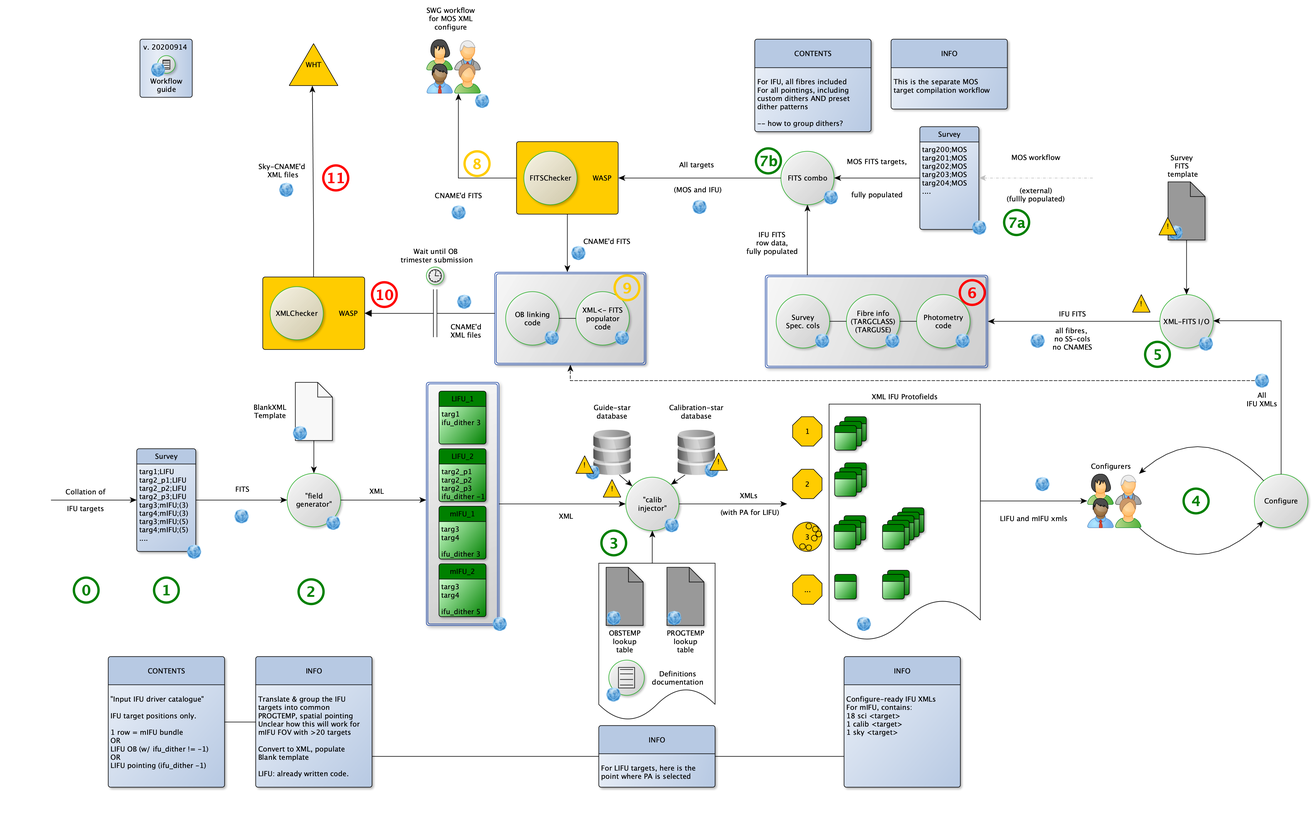
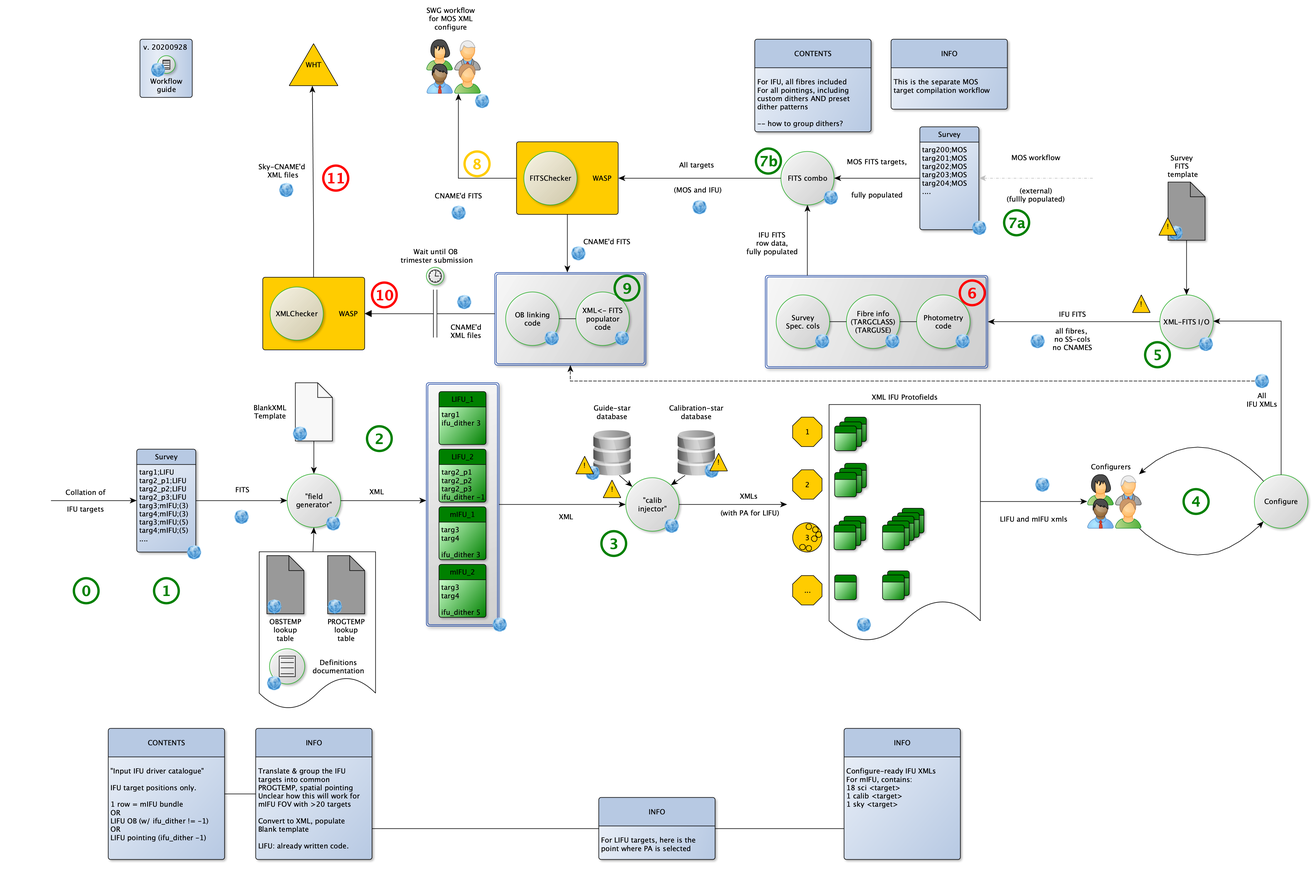
Update to IFU workflow diagram

diff --git a/workflow/ifu_workflow.html b/workflow/ifu_workflow.html
@@ -112,7 +112,7 @@ tooltip.style.display = "none";
 <div class="tooltip" id="n32">Stage 4 input files - this contains the 4 IFU XMLs at the point they are due to be submitted to Configure.</div>
 <div class="tooltip" id="n33">The underlying blank XML template. <br>All OBs are dervied from this master XML file, with specific elements updated throughout the workflow.</div>
 <div class="tooltip" id="n34">This code identifies which guide star(s) and WD calibration stars can be used for a given field, and inserts their XML data <target> representations into the "proto-field" XMLs</div>
-<div class="tooltip" id="n35">v. 20200914</div>
+<div class="tooltip" id="n35">v. 20200928</div>
 <div class="tooltip" id="n36">Notes to accompany this workflow</div>
 <div class="tooltip" id="n39">Positions of viable guidestars within the proposed FOV of the protofield.</div>
 <div class="tooltip" id="n40">HEALPix'd decomposition of the Guidestar catalogue. This is based on Gaia DR2.</div>
@@ -122,52 +122,52 @@ tooltip.style.display = "none";
 <div class="tooltip" id="n44">2</div>
 <div class="tooltip" id="n45">3</div>
 <div class="tooltip" id="n47">0</div>
-<div class="tooltip" id="n50">Survey</div>
-<div class="tooltip" id="n51">Example input IFU driver catalogue. <br>This contains the information required to produce WEAVE IFU observing blocks. <br>We provide 4 cases here, and these will evolve throughout the workflow:<br><br>1. LIFU with fixed dither pattern<br>2. LIFU with custom dither pattern<br>3. mIFU with 3-dither pattern<br>4. mIFU with 5-dither pattern<br><br>(3) and (4) are observations of the same targets.</div>
-<div class="tooltip" id="n53">"field<br>generator"</div>
-<div class="tooltip" id="n54">INFO</div>
-<div class="tooltip" id="n55">3</div>
-<div class="tooltip" id="n63">Configurers</div>
-<div class="tooltip" id="n64">Photometry<br>code</div>
-<div class="tooltip" id="n65">Survey<br>Spec. cols</div>
-<div class="tooltip" id="n66">XML-FITS I/O</div>
-<div class="tooltip" id="n67">This code takes the output of configure and converts each target (and associated metadata from the XML) into a FITS catalogue row. This includes writing the IFU position angles, spaxel IDs etc.</div>
-<div class="tooltip" id="n68">WASP</div>
-<div class="tooltip" id="n69">FITSChecker</div>
-<div class="tooltip" id="n70">Survey</div>
-<div class="tooltip" id="n71">These are the individual input catalogues from the survey teams. They have been verified by the WASP and have CNAMES added to them.</div>
-<div class="tooltip" id="n72">FITS combo</div>
-<div class="tooltip" id="n73">INFO</div>
-<div class="tooltip" id="n74">WASP</div>
-<div class="tooltip" id="n75">XMLChecker</div>
-<div class="tooltip" id="n76">Wait until OB<br> trimester submission</div>
-<div class="tooltip" id="n79">WHT</div>
-<div class="tooltip" id="n80">This code identifies the entries in the input driver and splits them into fields. It also converts the FITS file into XML.</div>
-<div class="tooltip" id="n81">4</div>
-<div class="tooltip" id="n82">6</div>
-<div class="tooltip" id="n84">CONTENTS</div>
-<div class="tooltip" id="n85">5</div>
-<div class="tooltip" id="n86">8</div>
-<div class="tooltip" id="n87">10</div>
-<div class="tooltip" id="n95">This is the output from configure. In general, configure is non-determinative: <br>the files here might not represent end-user attempts to run configure, but should serve as illustrative of the process.</div>
-<div class="tooltip" id="n96">Fibre info<br>(TARGCLASS)<br>(TARGUSE)</div>
-<div class="tooltip" id="n99">OB linking<br>code</div>
-<div class="tooltip" id="n101">XML<- FITS<br>populator<br>code</div>
-<div class="tooltip" id="n105">This is a FITS file containing all fibres for all IFU observations.</div>
-<div class="tooltip" id="n106">7b</div>
-<div class="tooltip" id="n107">7a</div>
-<div class="tooltip" id="n108">9</div>
-<div class="tooltip" id="n110">11</div>
-<div class="tooltip" id="n111">SWG workflow<br>for MOS XML<br>configure</div>
-<div class="tooltip" id="n112">If LIFU has an "apply_dither" = 3,5 then<br>the GuideStar module must ensure that the <br>*same* guidestar is visible within the fixed<br>dither pattern that Dave Terrett uses, or within<br>a displacement from origin.</div>
-<div class="tooltip" id="n119">Stage 5 input files - this contains the 4 IFU XMLs at the point they are due to be submitted to Configure.</div>
-<div class="tooltip" id="n120">If we decide to ever allow mixed-survey fields for mIFU (eg. filler-mode?), <br>then the surveys will need to split at this point for FITS - ie, <br>the survey-specfic FITS templates must be used, mapping XML target TARGSRVY to the relevant catalogue template.<br><br>From this point onwards, this workflow implies work done on just one of these surveys. In reality, both must be processed.<br></div>
-<div class="tooltip" id="n121">Survey <br>FITS <br>template</div>
-<div class="tooltip" id="n122">This is the input FITS template for a specific survey. <br>For PI-surveys, these templates can be generated at the WASP once end-users <br>receive their access credentials.</div>
-<div class="tooltip" id="n123">Stage 2 input file - this is the input driver catalogue, as a FITS file.</div>
+<div class="tooltip" id="n49">Survey</div>
+<div class="tooltip" id="n50">Example input IFU driver catalogue. <br>This contains the information required to produce WEAVE IFU observing blocks. <br>We provide 4 cases here, and these will evolve throughout the workflow:<br><br>1. LIFU with fixed dither pattern<br>2. LIFU with custom dither pattern<br>3. mIFU with 3-dither pattern<br>4. mIFU with 5-dither pattern<br><br>(3) and (4) are observations of the same targets.</div>
+<div class="tooltip" id="n52">"field<br>generator"</div>
+<div class="tooltip" id="n53">INFO</div>
+<div class="tooltip" id="n54">3</div>
+<div class="tooltip" id="n62">Configurers</div>
+<div class="tooltip" id="n63">Photometry<br>code</div>
+<div class="tooltip" id="n64">Survey<br>Spec. cols</div>
+<div class="tooltip" id="n65">XML-FITS I/O</div>
+<div class="tooltip" id="n66">This code takes the output of configure and converts each target (and associated metadata from the XML) into a FITS catalogue row. This includes writing the IFU position angles, spaxel IDs etc.</div>
+<div class="tooltip" id="n67">WASP</div>
+<div class="tooltip" id="n68">FITSChecker</div>
+<div class="tooltip" id="n69">Survey</div>
+<div class="tooltip" id="n70">These are the individual input catalogues from the survey teams. They have been verified by the WASP and have CNAMES added to them.</div>
+<div class="tooltip" id="n71">FITS combo</div>
+<div class="tooltip" id="n72">INFO</div>
+<div class="tooltip" id="n73">WASP</div>
+<div class="tooltip" id="n74">XMLChecker</div>
+<div class="tooltip" id="n75">Wait until OB<br> trimester submission</div>
+<div class="tooltip" id="n78">WHT</div>
+<div class="tooltip" id="n79">This code identifies the entries in the input driver and splits them into fields. It also converts the FITS file into XML.</div>
+<div class="tooltip" id="n80">4</div>
+<div class="tooltip" id="n81">6</div>
+<div class="tooltip" id="n83">CONTENTS</div>
+<div class="tooltip" id="n84">5</div>
+<div class="tooltip" id="n85">8</div>
+<div class="tooltip" id="n86">10</div>
+<div class="tooltip" id="n94">This is the output from configure. In general, configure is non-determinative: <br>the files here might not represent end-user attempts to run configure, but should serve as illustrative of the process.</div>
+<div class="tooltip" id="n95">Fibre info<br>(TARGCLASS)<br>(TARGUSE)</div>
+<div class="tooltip" id="n98">OB linking<br>code</div>
+<div class="tooltip" id="n100">XML<- FITS<br>populator<br>code</div>
+<div class="tooltip" id="n104">This is a FITS file containing all fibres for all IFU observations.</div>
+<div class="tooltip" id="n105">7b</div>
+<div class="tooltip" id="n106">7a</div>
+<div class="tooltip" id="n107">9</div>
+<div class="tooltip" id="n109">11</div>
+<div class="tooltip" id="n110">SWG workflow<br>for MOS XML<br>configure</div>
+<div class="tooltip" id="n111">If LIFU has an "apply_dither" = 3,5 then<br>the GuideStar module must ensure that the <br>*same* guidestar is visible within the fixed<br>dither pattern that Dave Terrett uses, or within<br>a displacement from origin.</div>
+<div class="tooltip" id="n118">Stage 5 input files - this contains the 4 IFU XMLs at the point they are due to be submitted to Configure.</div>
+<div class="tooltip" id="n119">If we decide to ever allow mixed-survey fields for mIFU (eg. filler-mode?), <br>then the surveys will need to split at this point for FITS - ie, <br>the survey-specfic FITS templates must be used, mapping XML target TARGSRVY to the relevant catalogue template.<br><br>From this point onwards, this workflow implies work done on just one of these surveys. In reality, both must be processed.<br></div>
+<div class="tooltip" id="n120">Survey <br>FITS <br>template</div>
+<div class="tooltip" id="n121">This is the input FITS template for a specific survey. <br>For PI-surveys, these templates can be generated at the WASP once end-users <br>receive their access credentials.</div>
+<div class="tooltip" id="n122">Stage 2 input file - this is the input driver catalogue, as a FITS file.</div>
+<div class="tooltip" id="n123">Generate links</div>
 <div class="tooltip" id="n124">Generate links</div>
-<div class="tooltip" id="n125">Generate links</div>
-<div class="tooltip" id="n126">Scott: provide<br></div>
+<div class="tooltip" id="n125">Scott: provide<br></div>
 <div class="tooltip" id="e0">XML</div>
 <div class="tooltip" id="e1">FITS</div>
 <div class="tooltip" id="e2">XMLs <br><br>(with PA for LIFU)</div>
@@ -202,59 +202,59 @@ tooltip.style.display = "none";
   <area shape="poly" coords="2311,1706,2311,1706,2663,1706,2663,1726,2311,1726,2311,1726" alt="" onmouseover="showTooltip('e2')" onmouseout="hideTooltip()"/>
   <area shape="poly" coords="667,1693,667,1693,961,1693,961,1713,667,1713,667,1713" alt="" onmouseover="showTooltip('e1')" onmouseout="hideTooltip()"/>
   <area shape="poly" coords="1698,1706,1698,1706,2114,1706,2114,1726,1698,1726,1698,1726" alt="" onmouseover="showTooltip('e0')" onmouseout="hideTooltip()"/>
-  <area shape="rect" coords="3945,740,4005,800" alt="" onmouseover="showTooltip('n126')" onmouseout="hideTooltip()"/>
-  <area shape="rect" coords="2416,1542,2476,1602" alt="" onmouseover="showTooltip('n125')" onmouseout="hideTooltip()"/>
-  <area shape="rect" coords="1960,1552,2020,1612" alt="" onmouseover="showTooltip('n124')" onmouseout="hideTooltip()"/>
-  <area shape="rect" coords="797,1733,847,1783" href="https://ingbitbucket.ing.iac.es/projects/WVSWG/repos/ifu/browse/workflow/stage2/input" alt="" onmouseover="showTooltip('n123')" onmouseout="hideTooltip()" target="_blank"/>
-  <area shape="rect" coords="3977,767,4027,817" href="https://ingbitbucket.ing.iac.es/projects/WVSWG/repos/ifu/browse/workflow/stage6/" alt="" onmouseover="showTooltip('n122')" onmouseout="hideTooltip()" target="_blank"/>
-  <area shape="rect" coords="3976,619,4102,817" alt="" onmouseover="showTooltip('n121')" onmouseout="hideTooltip()"/>
-  <area shape="rect" coords="3855,1003,3915,1063" alt="" onmouseover="showTooltip('n120')" onmouseout="hideTooltip()"/>
-  <area shape="rect" coords="3523,1623,3573,1673" href="https://ingbitbucket.ing.iac.es/projects/WVSWG/repos/ifu/browse/workflow/stage5/input" alt="" onmouseover="showTooltip('n119')" onmouseout="hideTooltip()" target="_blank"/>
-  <area shape="rect" coords="2053,1633,2113,1693" alt="" onmouseover="showTooltip('n112')" onmouseout="hideTooltip()"/>
-  <area shape="rect" coords="1451,133,1636,318" alt="" onmouseover="showTooltip('n111')" onmouseout="hideTooltip()"/>
-  <area shape="rect" coords="1100,563,1185,648" alt="" onmouseover="showTooltip('n110')" onmouseout="hideTooltip()"/>
-  <area shape="rect" coords="2092,938,2176,1022" alt="" onmouseover="showTooltip('n108')" onmouseout="hideTooltip()"/>
-  <area shape="rect" coords="3418,715,3503,800" alt="" onmouseover="showTooltip('n107')" onmouseout="hideTooltip()"/>
-  <area shape="rect" coords="2573,505,2658,590" alt="" onmouseover="showTooltip('n106')" onmouseout="hideTooltip()"/>
-  <area shape="rect" coords="3507,1135,3557,1185" href="https://ingbitbucket.ing.iac.es/projects/WVSWG/repos/ifu/browse/workflow/stage6/input" alt="" onmouseover="showTooltip('n105')" onmouseout="hideTooltip()" target="_blank"/>
-  <area shape="rect" coords="1960,993,2142,1175" alt="" onmouseover="showTooltip('n101')" onmouseout="hideTooltip()"/>
-  <area shape="rect" coords="1721,993,1903,1175" alt="" onmouseover="showTooltip('n99')" onmouseout="hideTooltip()"/>
-  <area shape="rect" coords="2881,1003,3063,1185" alt="" onmouseover="showTooltip('n96')" onmouseout="hideTooltip()"/>
-  <area shape="rect" coords="4271,1271,4321,1321" href="https://ingbitbucket.ing.iac.es/projects/WVSWG/repos/ifu/browse/workflow/stage5/input" alt="" onmouseover="showTooltip('n95')" onmouseout="hideTooltip()" target="_blank"/>
-  <area shape="rect" coords="1266,961,1350,1045" alt="" onmouseover="showTooltip('n87')" onmouseout="hideTooltip()"/>
-  <area shape="rect" coords="1581,515,1666,599" alt="" onmouseover="showTooltip('n86')" onmouseout="hideTooltip()"/>
-  <area shape="rect" coords="3898,1164,3982,1249" alt="" onmouseover="showTooltip('n85')" onmouseout="hideTooltip()"/>
-  <area shape="rect" coords="2569,133,2965,448" alt="" onmouseover="showTooltip('n84')" onmouseout="hideTooltip()"/>
-  <area shape="rect" coords="3267,954,3352,1038" alt="" onmouseover="showTooltip('n82')" onmouseout="hideTooltip()"/>
-  <area shape="rect" coords="4029,1664,4114,1748" alt="" onmouseover="showTooltip('n81')" onmouseout="hideTooltip()"/>
-  <area shape="rect" coords="1109,1755,1159,1805" href="https://ingbitbucket.ing.iac.es/projects/WVSWG/repos/ifu/browse/workflow/stage2/" alt="" onmouseover="showTooltip('n80')" onmouseout="hideTooltip()" target="_blank"/>
-  <area shape="rect" coords="984,148,1150,291" alt="" onmouseover="showTooltip('n79')" onmouseout="hideTooltip()"/>
-  <area shape="rect" coords="1470,961,1495,985" alt="" onmouseover="showTooltip('n76')" onmouseout="hideTooltip()"/>
-  <area shape="rect" coords="919,976,1100,1157" alt="" onmouseover="showTooltip('n75')" onmouseout="hideTooltip()"/>
-  <area shape="rect" coords="894,943,1241,1190" alt="" onmouseover="showTooltip('n74')" onmouseout="hideTooltip()"/>
-  <area shape="rect" coords="3033,133,3429,371" alt="" onmouseover="showTooltip('n73')" onmouseout="hideTooltip()"/>
-  <area shape="rect" coords="2658,515,2839,697" alt="" onmouseover="showTooltip('n72')" onmouseout="hideTooltip()"/>
-  <area shape="rect" coords="3719,412,4084,800" alt="" onmouseover="showTooltip('n71')" onmouseout="hideTooltip()"/>
-  <area shape="rect" coords="3131,431,3332,781" alt="" onmouseover="showTooltip('n70')" onmouseout="hideTooltip()"/>
-  <area shape="rect" coords="1783,515,1964,697" alt="" onmouseover="showTooltip('n69')" onmouseout="hideTooltip()"/>
-  <area shape="rect" coords="1758,482,2104,729" alt="" onmouseover="showTooltip('n68')" onmouseout="hideTooltip()"/>
-  <area shape="rect" coords="4080,1145,4130,1195" href="https://ingbitbucket.ing.iac.es/projects/WVSWG/repos/ifu/browse/workflow/stage6/" alt="" onmouseover="showTooltip('n67')" onmouseout="hideTooltip()" target="_blank"/>
-  <area shape="rect" coords="3948,1003,4130,1185" alt="" onmouseover="showTooltip('n66')" onmouseout="hideTooltip()"/>
-  <area shape="rect" coords="2642,1003,2824,1185" alt="" onmouseover="showTooltip('n65')" onmouseout="hideTooltip()"/>
-  <area shape="rect" coords="3120,1003,3302,1185" alt="" onmouseover="showTooltip('n64')" onmouseout="hideTooltip()"/>
-  <area shape="rect" coords="3701,1613,3886,1798" alt="" onmouseover="showTooltip('n63')" onmouseout="hideTooltip()"/>
-  <area shape="rect" coords="2698,1778,2798,1878" alt="" onmouseover="showTooltip('n55')" onmouseout="hideTooltip()"/>
-  <area shape="rect" coords="870,2236,1266,2681" alt="" onmouseover="showTooltip('n54')" onmouseout="hideTooltip()"/>
-  <area shape="rect" coords="977,1612,1159,1794" alt="" onmouseover="showTooltip('n53')" onmouseout="hideTooltip()"/>
+  <area shape="rect" coords="3945,740,4005,800" alt="" onmouseover="showTooltip('n125')" onmouseout="hideTooltip()"/>
+  <area shape="rect" coords="2416,1542,2476,1602" alt="" onmouseover="showTooltip('n124')" onmouseout="hideTooltip()"/>
+  <area shape="rect" coords="1960,1552,2020,1612" alt="" onmouseover="showTooltip('n123')" onmouseout="hideTooltip()"/>
+  <area shape="rect" coords="797,1733,847,1783" href="https://ingbitbucket.ing.iac.es/projects/WVSWG/repos/ifu/browse/workflow/stage2/input" alt="" onmouseover="showTooltip('n122')" onmouseout="hideTooltip()" target="_blank"/>
+  <area shape="rect" coords="3977,767,4027,817" href="https://ingbitbucket.ing.iac.es/projects/WVSWG/repos/ifu/browse/workflow/stage6/" alt="" onmouseover="showTooltip('n121')" onmouseout="hideTooltip()" target="_blank"/>
+  <area shape="rect" coords="3976,619,4102,817" alt="" onmouseover="showTooltip('n120')" onmouseout="hideTooltip()"/>
+  <area shape="rect" coords="3855,1003,3915,1063" alt="" onmouseover="showTooltip('n119')" onmouseout="hideTooltip()"/>
+  <area shape="rect" coords="3523,1623,3573,1673" href="https://ingbitbucket.ing.iac.es/projects/WVSWG/repos/ifu/browse/workflow/stage5/input" alt="" onmouseover="showTooltip('n118')" onmouseout="hideTooltip()" target="_blank"/>
+  <area shape="rect" coords="2053,1633,2113,1693" alt="" onmouseover="showTooltip('n111')" onmouseout="hideTooltip()"/>
+  <area shape="rect" coords="1451,133,1636,318" alt="" onmouseover="showTooltip('n110')" onmouseout="hideTooltip()"/>
+  <area shape="rect" coords="1100,563,1185,648" alt="" onmouseover="showTooltip('n109')" onmouseout="hideTooltip()"/>
+  <area shape="rect" coords="2092,938,2176,1022" alt="" onmouseover="showTooltip('n107')" onmouseout="hideTooltip()"/>
+  <area shape="rect" coords="3418,715,3503,800" alt="" onmouseover="showTooltip('n106')" onmouseout="hideTooltip()"/>
+  <area shape="rect" coords="2573,505,2658,590" alt="" onmouseover="showTooltip('n105')" onmouseout="hideTooltip()"/>
+  <area shape="rect" coords="3507,1135,3557,1185" href="https://ingbitbucket.ing.iac.es/projects/WVSWG/repos/ifu/browse/workflow/stage6/input" alt="" onmouseover="showTooltip('n104')" onmouseout="hideTooltip()" target="_blank"/>
+  <area shape="rect" coords="1960,993,2142,1175" alt="" onmouseover="showTooltip('n100')" onmouseout="hideTooltip()"/>
+  <area shape="rect" coords="1721,993,1903,1175" alt="" onmouseover="showTooltip('n98')" onmouseout="hideTooltip()"/>
+  <area shape="rect" coords="2881,1003,3063,1185" alt="" onmouseover="showTooltip('n95')" onmouseout="hideTooltip()"/>
+  <area shape="rect" coords="4271,1271,4321,1321" href="https://ingbitbucket.ing.iac.es/projects/WVSWG/repos/ifu/browse/workflow/stage5/input" alt="" onmouseover="showTooltip('n94')" onmouseout="hideTooltip()" target="_blank"/>
+  <area shape="rect" coords="1266,961,1350,1045" alt="" onmouseover="showTooltip('n86')" onmouseout="hideTooltip()"/>
+  <area shape="rect" coords="1581,515,1666,599" alt="" onmouseover="showTooltip('n85')" onmouseout="hideTooltip()"/>
+  <area shape="rect" coords="3898,1164,3982,1249" alt="" onmouseover="showTooltip('n84')" onmouseout="hideTooltip()"/>
+  <area shape="rect" coords="2569,133,2965,448" alt="" onmouseover="showTooltip('n83')" onmouseout="hideTooltip()"/>
+  <area shape="rect" coords="3267,954,3352,1038" alt="" onmouseover="showTooltip('n81')" onmouseout="hideTooltip()"/>
+  <area shape="rect" coords="4029,1664,4114,1748" alt="" onmouseover="showTooltip('n80')" onmouseout="hideTooltip()"/>
+  <area shape="rect" coords="1109,1755,1159,1805" href="https://ingbitbucket.ing.iac.es/projects/WVSWG/repos/ifu/browse/workflow/stage2/" alt="" onmouseover="showTooltip('n79')" onmouseout="hideTooltip()" target="_blank"/>
+  <area shape="rect" coords="984,148,1150,291" alt="" onmouseover="showTooltip('n78')" onmouseout="hideTooltip()"/>
+  <area shape="rect" coords="1470,961,1495,985" alt="" onmouseover="showTooltip('n75')" onmouseout="hideTooltip()"/>
+  <area shape="rect" coords="919,976,1100,1157" alt="" onmouseover="showTooltip('n74')" onmouseout="hideTooltip()"/>
+  <area shape="rect" coords="894,943,1241,1190" alt="" onmouseover="showTooltip('n73')" onmouseout="hideTooltip()"/>
+  <area shape="rect" coords="3033,133,3429,371" alt="" onmouseover="showTooltip('n72')" onmouseout="hideTooltip()"/>
+  <area shape="rect" coords="2658,515,2839,697" alt="" onmouseover="showTooltip('n71')" onmouseout="hideTooltip()"/>
+  <area shape="rect" coords="3719,412,4084,800" alt="" onmouseover="showTooltip('n70')" onmouseout="hideTooltip()"/>
+  <area shape="rect" coords="3131,431,3332,781" alt="" onmouseover="showTooltip('n69')" onmouseout="hideTooltip()"/>
+  <area shape="rect" coords="1783,515,1964,697" alt="" onmouseover="showTooltip('n68')" onmouseout="hideTooltip()"/>
+  <area shape="rect" coords="1758,482,2104,729" alt="" onmouseover="showTooltip('n67')" onmouseout="hideTooltip()"/>
+  <area shape="rect" coords="4080,1145,4130,1195" href="https://ingbitbucket.ing.iac.es/projects/WVSWG/repos/ifu/browse/workflow/stage6/" alt="" onmouseover="showTooltip('n66')" onmouseout="hideTooltip()" target="_blank"/>
+  <area shape="rect" coords="3948,1003,4130,1185" alt="" onmouseover="showTooltip('n65')" onmouseout="hideTooltip()"/>
+  <area shape="rect" coords="2642,1003,2824,1185" alt="" onmouseover="showTooltip('n64')" onmouseout="hideTooltip()"/>
+  <area shape="rect" coords="3120,1003,3302,1185" alt="" onmouseover="showTooltip('n63')" onmouseout="hideTooltip()"/>
+  <area shape="rect" coords="3701,1613,3886,1798" alt="" onmouseover="showTooltip('n62')" onmouseout="hideTooltip()"/>
+  <area shape="rect" coords="2698,1778,2798,1878" alt="" onmouseover="showTooltip('n54')" onmouseout="hideTooltip()"/>
+  <area shape="rect" coords="870,2478,1266,2924" alt="" onmouseover="showTooltip('n53')" onmouseout="hideTooltip()"/>
+  <area shape="rect" coords="977,1612,1159,1794" alt="" onmouseover="showTooltip('n52')" onmouseout="hideTooltip()"/>
   <area shape="rect" coords="1676,2100,1726,2150" href="https://ingbitbucket.ing.iac.es/projects/WVSWG/repos/ifu/browse/workflow/stage3/input" alt="" target="_blank"/>
-  <area shape="rect" coords="635,1854,685,1904" href="https://ingbitbucket.ing.iac.es/projects/WVSWG/repos/ifu/browse/workflow/stage2/input" alt="" onmouseover="showTooltip('n51')" onmouseout="hideTooltip()" target="_blank"/>
-  <area shape="rect" coords="465,1528,666,1878" alt="" onmouseover="showTooltip('n50')" onmouseout="hideTooltip()"/>
+  <area shape="rect" coords="635,1854,685,1904" href="https://ingbitbucket.ing.iac.es/projects/WVSWG/repos/ifu/browse/workflow/stage2/input" alt="" onmouseover="showTooltip('n50')" onmouseout="hideTooltip()" target="_blank"/>
+  <area shape="rect" coords="465,1528,666,1878" alt="" onmouseover="showTooltip('n49')" onmouseout="hideTooltip()"/>
   <area shape="rect" coords="251,1967,335,2052" alt="" onmouseover="showTooltip('n47')" onmouseout="hideTooltip()"/>
   <area shape="rect" coords="2047,1807,2131,1891" alt="" onmouseover="showTooltip('n45')" onmouseout="hideTooltip()"/>
-  <area shape="rect" coords="1016,1973,1101,2057" alt="" onmouseover="showTooltip('n44')" onmouseout="hideTooltip()"/>
+  <area shape="rect" coords="1249,1450,1333,1534" alt="" onmouseover="showTooltip('n44')" onmouseout="hideTooltip()"/>
   <area shape="rect" coords="524,1967,608,2052" alt="" onmouseover="showTooltip('n43')" onmouseout="hideTooltip()"/>
-  <area shape="rect" coords="2063,2340,2113,2390" href="http://casu.ast.cam.ac.uk/weave/data_model/docs/WEAVE-ICD-030%20WEAVE%20SPA%20to%20SWG%20&%20QAG.pdf" alt="" onmouseover="showTooltip('n42')" onmouseout="hideTooltip()" target="_blank"/>
-  <area shape="rect" coords="2072,2248,2193,2368" alt="" onmouseover="showTooltip('n41')" onmouseout="hideTooltip()"/>
+  <area shape="rect" coords="908,2299,958,2349" href="http://casu.ast.cam.ac.uk/weave/data_model/docs/WEAVE-ICD-030%20WEAVE%20SPA%20to%20SWG%20&%20QAG.pdf" alt="" onmouseover="showTooltip('n42')" onmouseout="hideTooltip()" target="_blank"/>
+  <area shape="rect" coords="917,2207,1037,2327" alt="" onmouseover="showTooltip('n41')" onmouseout="hideTooltip()"/>
   <area shape="rect" coords="1992,1583,2042,1633" alt="" onmouseover="showTooltip('n40')" onmouseout="hideTooltip()"/>
   <area shape="rect" coords="2020,1463,2146,1617" alt="" onmouseover="showTooltip('n39')" onmouseout="hideTooltip()"/>
   <area shape="rect" coords="513,212,563,262" href="https://ingbitbucket.ing.iac.es/projects/WVSWG/repos/ifu/browse/workflow" alt="" target="_blank"/>
@@ -263,16 +263,16 @@ tooltip.style.display = "none";
   <area shape="rect" coords="2261,1763,2311,1813" href="https://ingbitbucket.ing.iac.es/projects/WVSWG/repos/ifu/browse/workflow/stage3/" alt="" onmouseover="showTooltip('n34')" onmouseout="hideTooltip()" target="_blank"/>
   <area shape="rect" coords="996,1450,1046,1500" href="http://casu.ast.cam.ac.uk/weave/data_model/misc/BlankXMLTemplate.xml" alt="" onmouseover="showTooltip('n33')" onmouseout="hideTooltip()" target="_blank"/>
   <area shape="rect" coords="2915,2100,2965,2150" href="https://ingbitbucket.ing.iac.es/projects/WVSWG/repos/ifu/browse/workflow/stage4/input" alt="" onmouseover="showTooltip('n32')" onmouseout="hideTooltip()" target="_blank"/>
-  <area shape="rect" coords="2270,2080,2320,2130" href="http://casu.ast.cam.ac.uk/weave/data_model/misc/progtemp.dat" alt="" onmouseover="showTooltip('n31')" onmouseout="hideTooltip()" target="_blank"/>
-  <area shape="rect" coords="2064,2080,2114,2130" href="http://casu.ast.cam.ac.uk/weave/data_model/misc/obstemp.dat" alt="" onmouseover="showTooltip('n30')" onmouseout="hideTooltip()" target="_blank"/>
+  <area shape="rect" coords="1115,2038,1165,2088" href="http://casu.ast.cam.ac.uk/weave/data_model/misc/progtemp.dat" alt="" onmouseover="showTooltip('n31')" onmouseout="hideTooltip()" target="_blank"/>
+  <area shape="rect" coords="908,2038,958,2088" href="http://casu.ast.cam.ac.uk/weave/data_model/misc/obstemp.dat" alt="" onmouseover="showTooltip('n30')" onmouseout="hideTooltip()" target="_blank"/>
   <area shape="rect" coords="4270,1615,4452,1797" alt="" onmouseover="showTooltip('n29')" onmouseout="hideTooltip()"/>
-  <area shape="rect" coords="368,2236,764,2681" alt="" onmouseover="showTooltip('n28')" onmouseout="hideTooltip()"/>
-  <area shape="rect" coords="2038,2471,2434,2681" alt="" onmouseover="showTooltip('n27')" onmouseout="hideTooltip()"/>
+  <area shape="rect" coords="368,2478,764,2924" alt="" onmouseover="showTooltip('n28')" onmouseout="hideTooltip()"/>
+  <area shape="rect" coords="2038,2713,2434,2924" alt="" onmouseover="showTooltip('n27')" onmouseout="hideTooltip()"/>
   <area shape="rect" coords="2307,1463,2433,1617" alt="" onmouseover="showTooltip('n26')" onmouseout="hideTooltip()"/>
-  <area shape="rect" coords="2270,1932,2396,2130" alt="" onmouseover="showTooltip('n25')" onmouseout="hideTooltip()"/>
-  <area shape="rect" coords="2063,1932,2189,2130" alt="" onmouseover="showTooltip('n24')" onmouseout="hideTooltip()"/>
+  <area shape="rect" coords="1115,1890,1241,2088" alt="" onmouseover="showTooltip('n25')" onmouseout="hideTooltip()"/>
+  <area shape="rect" coords="908,1890,1034,2088" alt="" onmouseover="showTooltip('n24')" onmouseout="hideTooltip()"/>
   <area shape="rect" coords="1005,1302,1131,1500" alt="" onmouseover="showTooltip('n23')" onmouseout="hideTooltip()"/>
-  <area shape="rect" coords="2873,2236,3269,2681" alt="" onmouseover="showTooltip('n22')" onmouseout="hideTooltip()"/>
+  <area shape="rect" coords="2873,2478,3269,2924" alt="" onmouseover="showTooltip('n22')" onmouseout="hideTooltip()"/>
   <area shape="rect" coords="2698,1958,2798,2058" alt="" onmouseover="showTooltip('n19')" onmouseout="hideTooltip()"/>
   <area shape="rect" coords="2698,1598,2798,1698" alt="" onmouseover="showTooltip('n15')" onmouseout="hideTooltip()"/>
   <area shape="rect" coords="2698,1419,2798,1519" alt="" onmouseover="showTooltip('n14')" onmouseout="hideTooltip()"/>
